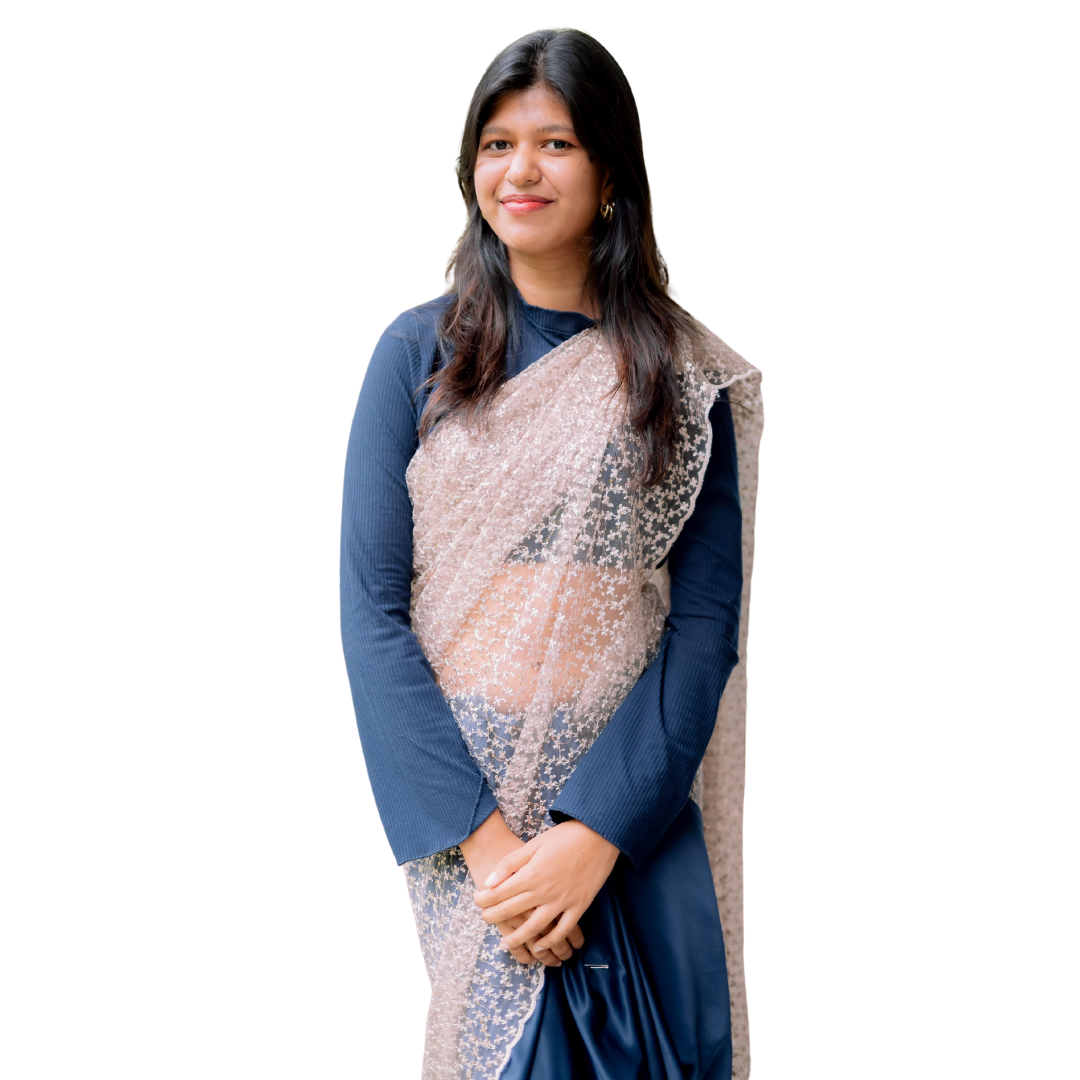
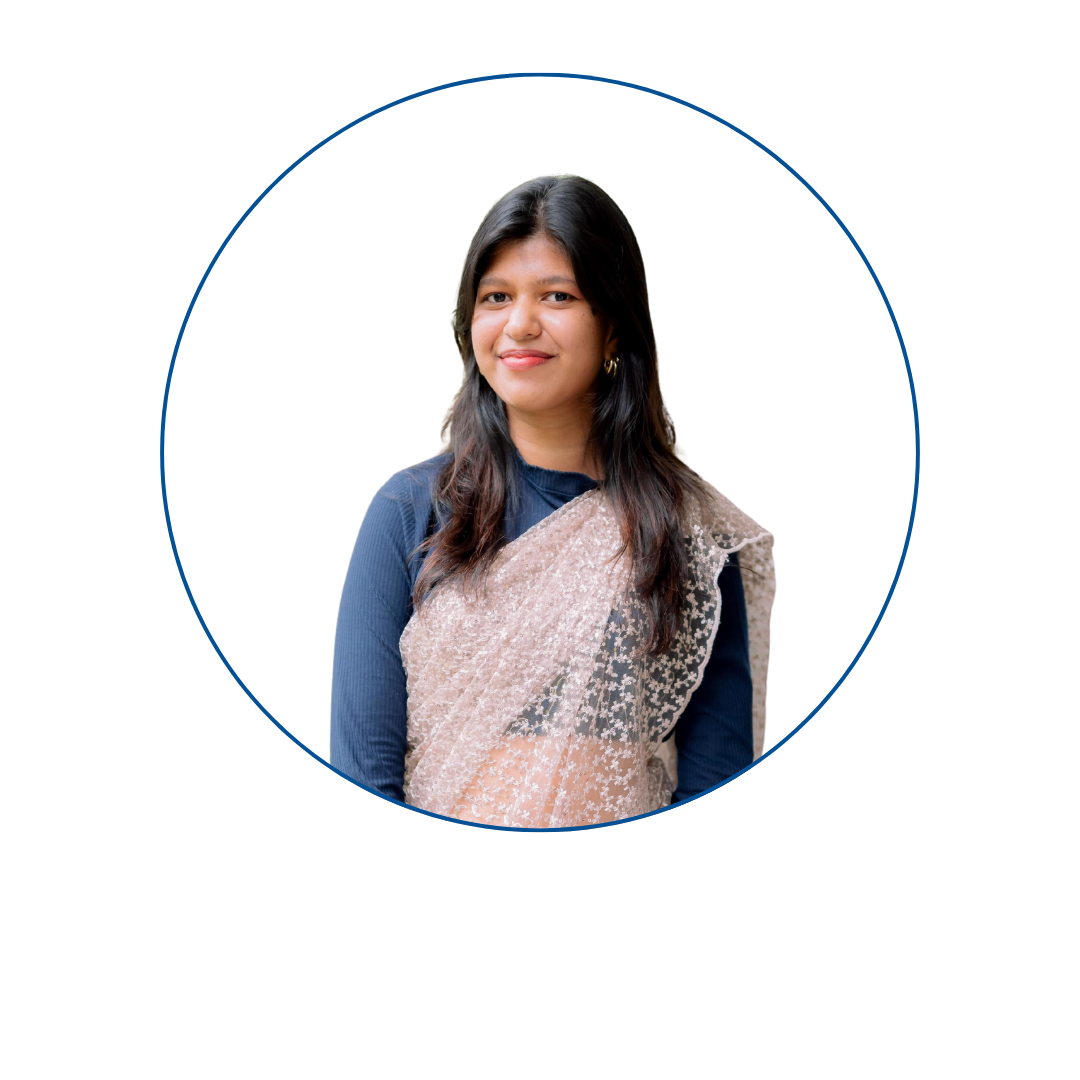
updated Extra

diff --git a/src/components/ExtraCurricular.jsx b/src/components/ExtraCurricular.jsx
@@ -30,25 +30,25 @@ const ExtraCurricular = () => {
     extracurricular: [
       {
         id: 1,
-        title: "Hackathon Participant",
-        organization: "TechFest 2023",
-        period: "March 2023",
+        title: "Director of Social Media & Content Strategy",
+        organization: "Sundown Motor Fest 25 - Leo Club of Homagama Central",
+        period: "February 2025",
         description: "Participated in a 48-hour hackathon where my team developed a sustainability tracking application that won the 'Most Innovative Solution' award.",
         image: "/api/placeholder/300/200"
       },
       {
         id: 2,
-        title: "Women in Tech Club",
-        organization: "University Tech Club",
-        period: "2022 - Present",
+        title: "Dancer - Finalist",
+        organization: "Stage Craft , IIT",
+        period: "Sep 2023 - Feb 2023",
         description: "Active member of the university's Women in Tech club, participating in workshops, mentorship programs, and networking events.",
         image: "/api/placeholder/300/200"
       },
       {
         id: 3,
-        title: "Programming Competition",
-        organization: "CodeJam 2022",
-        period: "November 2022",
+        title: "Secretary - English Literary Association",
+        organization: "Sirimavo Bandaranayake Vidyalaya, Colombo",
+        period: "2020 - 2023",
         description: "Reached the semifinals in a national coding competition, solving complex algorithmic problems under time constraints.",
         image: "/api/placeholder/300/200"
       }
@@ -56,25 +56,25 @@ const ExtraCurricular = () => {
     volunteering: [
       {
         id: 1,
-        title: "Code Instructor",
-        organization: "Girls Who Code",
-        period: "Summer 2023",
+        title: "Membership Chairperson",
+        organization: "Leo Club of Homagama Central",
+        period: "Aug 2024 - Present",
         description: "Volunteered as an instructor for an 8-week program teaching middle school girls the fundamentals of programming and web development.",
         image: "/api/placeholder/300/200"
       },
       {
         id: 2,
-        title: "Tech Workshop Facilitator",
-        organization: "Community Tech Hub",
-        period: "2022 - Present",
+        title: "Public Relations Team",
+        organization: "AIESEC of IIT",
+        period: "Aug 2024 - Feb 2025",
         description: "Conduct monthly workshops for senior citizens on using technology for everyday tasks, improving digital literacy in the community.",
         image: "/api/placeholder/300/200"
       },
       {
         id: 3,
-        title: "Website Developer",
-        organization: "Local Animal Shelter",
-        period: "April 2023",
+        title: "Member",
+        organization: "Rotaract Club of IIT",
+        period: "Sep 2023 - Feb 2023",
         description: "Designed and developed a new website for a local animal shelter to improve their online presence and streamline the adoption process.",
         image: "/api/placeholder/300/200"
       }

diff --git a/src/index.css b/src/index.css
@@ -1,10 +1,10 @@
 /* Fully Refined CSS for a Feminine Purple Themed Portfolio */
 :root {
-  --primary-purple: #9D50BB; /* A main, vibrant purple */
-  --light-purple: #C381D9; /* A softer, lighter purple */
-  --lavender: #E0BBE4;   /* A very light, pastel purple */
-  --light-pink: #F8BBD0;  /* A gentle pink to complement purple */
-  --deep-purple: #7B1FA2;  /* A darker, richer purple for accents */
+  --primary-purple: #6371c2; /* A main, vibrant purple */
+  --light-purple: #b4d4f9; /* A softer, lighter purple */
+  --lavender: #85bcf6;   /* A very light, pastel purple */
+  --light-pink: #538cab;  /* A gentle pink to complement purple */
+  --deep-purple: #1f28a2;  /* A darker, richer purple for accents */
   --text-dark: #333;      /* Dark text color, can adjust if needed */
   --white: #f5f5f5;      /* Off-white for backgrounds and text */
   --teal: #4DB6AC;       /* Keeping a touch of teal for contrast if desired */
@@ -256,13 +256,13 @@ p {
   justify-content: space-between;
   align-items: center;
   padding-top: 120px;
-  background: linear-gradient(135deg, var(--white) 0%, var(--white) 100%);
+  /* background: linear-gradient(135deg, var(--white) 0%, var(--white) 100%); */
   color: var(--text-dark);
 }
 
 .hero-content {
   flex: 1;
-  max-width: 600px;
+  max-width: 1200px;
 }
 
 .intro {
@@ -306,7 +306,7 @@ p {
   position: relative;
   border-radius: 10px;
   overflow: hidden;
-  border: 2px solid var(--primary-purple);
+  /* border: 2px solid var(--primary-purple); */
 }
 
 .image-container::before {
@@ -316,7 +316,7 @@ p {
   left: 15px;
   width: 100%;
   height: 100%;
-  border: 2px solid var(--primary-purple);
+  /* border: 2px solid var(--primary-purple); */
   border-radius: 10px;
   z-index: -1;
   transition: all 0.3s ease;
@@ -392,7 +392,7 @@ p {
 }
 
 .skill-group {
-  background-color: var(--lavender); /* Softer purple for skill groups */
+  background-color: var(--light-purple); /* Softer purple for skill groups */
   border-radius: 8px;
   padding: 20px;
   box-shadow: 0 5px 15px rgba(157, 80, 187, 0.1); /* Lighter purple shadow */
@@ -508,7 +508,7 @@ p {
 .project-overlay {
   position: absolute;
   inset: 0;
-  background-color: rgba(157, 80, 187, 0.8); /* Semi-transparent purple overlay */
+  background-color: rgba(239, 251, 254, 0.8); 
   display: flex;
   justify-content: center;
   align-items: center;
@@ -572,7 +572,8 @@ p {
 }
 
 .tab-container {
-  background-color: var(--lavender);
+  
+  background-color: var(--light-purple);
   border-radius: 10px;
   overflow: hidden;
   box-shadow: 0 5px 15px rgba(157, 80, 187, 0.1);
@@ -580,7 +581,7 @@ p {
 
 .tabs {
   display: flex;
-  background-color: var(--light-purple);
+  background-color: var(--lavender);
 }
 
 .tab-btn {
@@ -595,7 +596,7 @@ p {
 }
 
 .tab-btn.active {
-  background-color: var(--lavender);
+  background-color: var(--light-purple);
   color: var(--deep-purple);
   border-bottom: 2px solid var(--deep-purple);
 }

diff --git a/src/components/Projects.jsx b/src/components/Projects.jsx
@@ -33,7 +33,7 @@ const Projects = () => {
       id: 1,
       title: "Babble-app",
       description: "A digitalized mobile platform for kids with speaking challenges inlcuding features such as flashcards, progress predictive models, scenario building",
-      technologies: ["React Native", "Node.js", "MongoDB", "ML integrations"],
+      technologies: ["React Native", "Node.js", "MongoDB", "ML integrations","Firebase"],
       image: "/api/placeholder/400/250",
       category: "software",
       link: "#"
@@ -42,7 +42,7 @@ const Projects = () => {
       id: 2,
       title: "Green Aura UI UX",
       description: "A responsive task management application with drag-and-drop functionality, filters, and team collaboration features.",
-      technologies: ["React", "Redux", "Firebase", "TailwindCSS"],
+      technologies: ["React", "Redux",  "TailwindCSS"],
       image: GreenAura,
       category: "design",
       link: "https://www.figma.com/proto/ULtFkhBBVdJrZ9qC5BLBFS/IX-097_The-UXperts?node-id=227-718&starting-point-node-id=208%3A693&t=b6IDa5VIfy6GCv2z-1"
@@ -58,25 +58,25 @@ const Projects = () => {
     },
     {
       id: 4,
-      title: "Mobile App UI Design",
-      description: "A comprehensive UI design for a fitness tracking mobile application with user-friendly interface and visual elements.",
-      technologies: ["Figma", "Adobe Illustrator", "UI/UX Principles"],
+      title: "Real Time Ticketing System",
+      description: "A fullstack real time ticketing system including a ticketbooth and for vendors and customers",
+      technologies: ["SpringBoot","Angular","OOP","MySQL"],
       image: "/api/placeholder/400/250",
-      category: "design",
+      category: "Software",
       link: "#"
     },
     {
       id: 5,
-      title: "Brand Identity Design",
-      description: "Complete brand identity design including logo, color palette, typography, and brand guidelines for a tech startup.",
-      technologies: ["Adobe Illustrator", "Photoshop", "Brand Strategy"],
+      title: "Sustainable Development Goals Website",
+      description: "Complete Sustainalbe Development Goals related website for awareness,including main sitemaps and etc;",
+      technologies: ["HTML","CSS","JS"],
       image: "/api/placeholder/400/250",
-      category: "design",
+      category: "software",
       link: "#"
     },
     {
       id: 6,
-      title: "Web Application Redesign",
+      title: "Plane Ticketi Management System",
       description: "Redesign of an existing web application to improve user experience, accessibility, and visual appeal.",
       technologies: ["Figma", "User Research", "Wireframing", "Prototyping"],
       image: "/api/placeholder/400/250",

diff --git a/src/components/Hero.jsx b/src/components/Hero.jsx
@@ -1,4 +1,5 @@
 import { useEffect, useRef } from 'react';
+import lilyS from '../assets/images/lily.png'
 
 const Hero = () => {
   const nameRef = useRef(null);
@@ -22,7 +23,7 @@ const Hero = () => {
     <section id="home" className="hero">
       <div className="hero-content">
         <p className="intro fade-in" ref={nameRef}>Hi, my name is</p>
-        <h1 className="title fade-in" ref={roleRef}>Your Name</h1>
+        <h1 className="title fade-in" ref={roleRef}>Ravindi Satharasinghe</h1>
         <h2 className="subtitle fade-in" ref={descRef}>Software Engineer & Designer</h2>
         <p className="description fade-in" ref={descRef}>
           I'm a passionate software developer and designer with expertise in creating responsive 
@@ -35,7 +36,7 @@ const Hero = () => {
       </div>
       <div className="hero-image">
         <div className="image-container">
-          <img src="/api/placeholder/400/400" alt="Hero Image" />
+          <img src={lilyS} alt="Hero Image" />
         </div>
       </div>
     </section>

diff --git a/src/components/Footer.jsx b/src/components/Footer.jsx
@@ -6,7 +6,7 @@ const Footer = () => {
         <div className="footer-container">
           <div className="footer-content">
             <div className="footer-logo">
-              <a href="#home">RavindiSatharasinghepura</a>
+              <a href="#home">Ravindi Satharasinghe</a>
             </div>
             
             <div className="footer-links">
@@ -19,9 +19,9 @@ const Footer = () => {
             </div>
             
             <div className="footer-social">
-              <a href="#" className="social-icon">GitHub</a>
-              <a href="#" className="social-icon">LinkedIn</a>
-              <a href="#" className="social-icon">Twitter</a>
+              <a href="https://github.com/ravindimandari" className="social-icon">GitHub</a>
+              <a href="https://www.linkedin.com/in/mandari-satharasinghe-3a6b18267/" className="social-icon">LinkedIn</a>
+              <a href="#" className="social-icon">Instagram</a>
             </div>
           </div>
           

diff --git a/src/components/Contact.jsx b/src/components/Contact.jsx
@@ -79,9 +79,9 @@ const Contact = () => {
             </div>
             
             <div className="social-links">
-              <a href="#" className="social-link">GitHub</a>
-              <a href="#" className="social-link">LinkedIn</a>
-              <a href="#" className="social-link">Twitter</a>
+              <a href="https://github.com/ravindimandari" className="social-link">GitHub</a>
+              <a href="https://www.linkedin.com/in/mandari-satharasinghe-3a6b18267/" className="social-link">LinkedIn</a>
+            
             </div>
           </div>
           
